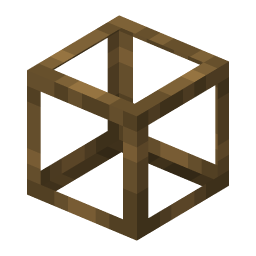
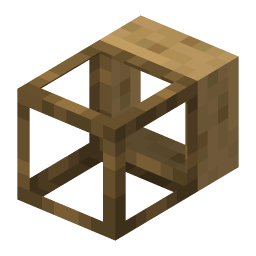
Render extractor/merger pipe arms from their _feature model
The item extractor and merger pipes have no _arm model — their connection arm
is a _feature model (parent: copper_transport_pipe_arm) that carries the arm
geometry with its own face texture. build_pipe_model only looked for _arm, so
these two icons rendered as a bare core. Fall back to _feature when _arm is
absent, and regenerate both icons.

diff --git a/tools/render_blocks.py b/tools/render_blocks.py
@@ -231,7 +231,13 @@ def build_pipe_model(core_ref, assets):
     model's #texture to an absolute id, merge the elements, and force texture_size [16,16] so
     the UVs map as intended instead of tiling."""
     core = load_chain(core_ref, assets)
-    arm = load_chain(core_ref[:-len("_core")] + "_arm", assets)
+    arm_base = core_ref[:-len("_core")]
+    arm = load_chain(arm_base + "_arm", assets)
+    if not arm.get("elements"):
+        # Extractor/merger pipes have no _arm model; their connection arm is a "_feature"
+        # model that inherits the arm geometry (parent: copper_transport_pipe_arm) but swaps
+        # in its own face texture.
+        arm = load_chain(arm_base + "_feature", assets)
     elements = []
     for m in (core, arm):
         tex = m.get("textures", {})
